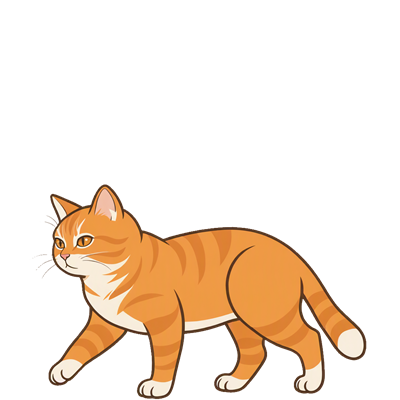
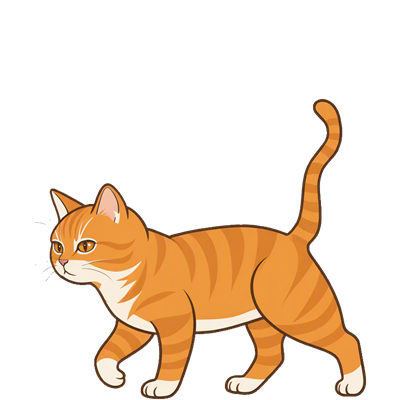
fix(pet): rebuild walk cycle from reference gait
The old cycle reused the same-side contact and read like a hop. Replace
it with seven phases sampled from the owner-provided walk GIF, normalize
the walk head scale, and update the frozen frame plan.

Refs #121

Changed region(s): [[0.09, 0.24, 0.93, 1.0]]

diff --git a/docs/pet-art-spec.md b/docs/pet-art-spec.md
@@ -49,9 +49,10 @@
 | 睡眠（`Sleep`） | 闭眼慢呼吸；循环；`Zzz` 由 UI 叠加 | 2 帧 · 2000 ms/帧 · 循环 |
 | 醒来（`Wake`） | 睁眼/起身；回 `LyingIdle` | 3 帧 · 150 ms/帧 · 一次性 |
 | 起身/伸懒腰（`Stretch`） | 趴 → 走的过渡；不循环 | 4 帧 · 120 ms/帧 · 一次性 |
-| 走路（`Walk`） | 侧/3-4 走路循环；一个方向，另一方向水平镜像；步幅与页面内速度匹配，不滑步 | 6 帧 · 100 ms/帧（10 fps）· 循环 |
+| 走路（`Walk`） | 侧/3-4 走路循环；一个方向，另一方向水平镜像；步幅与页面内速度匹配，不滑步 | 7 帧 · 120 ms/帧（约 8.3 fps）· 循环 |
 
 - **帧数与时长已由 #121 冻结**（见上表）；`MyJiuMiAnimationCatalog` 按此表实现。
+- 走路按 owner 提供的 GIF 步态参考重画为 7 帧，覆盖一个完整循环（约 0.84 s）；左右腿交替，不再复用同一侧 contact。
 - 爱心与 `Zzz` 是 UI 矢量元素，**不要烘焙进帧**。
 - 眨眼只在 `LyingIdle` 触发；`React`/`Drag`/`Sleep` 中不画眨眼。
 - 走路帧按页面内位移速度匹配；页面约 80 DIP/s 的自主闲逛与召唤共用一个循环，方向靠水平镜像，不单独画反方向。
@@ -76,7 +77,7 @@
 | 文件名 | 两位序号，从 `00.png` 开始；按播放顺序编号 |
 | 清单 | 由 `MyJiuMiAnimationCatalog` 定义帧序与时长；导出时同时给出「状态 → 帧数 → 时长」表 |
 | 源文件/原图 | ImageGen 原图与导出 PNG 进 git；方向稿在 `docs/images/pet/direction-117/`，最终帧原图在 `docs/images/pet/final-121/`；临时试稿、废稿、带水印参考图不进 git；不再要求 SVG/Krita/PSD/AI 矢量源 |
-| 体积 | 27 帧导出约 2.0 MB；8 张原图约 8.5 MB（不进应用包） |
+| 体积 | 28 帧导出约 2.2 MB；13 张原图约 11.2 MB（不进应用包） |
 
 - 导出前删除隐藏图层、背景、参考线、文字；只保留猫本体。
 - 每帧独立 PNG，不用雪碧图；Avalonia 侧按状态按需加载。
